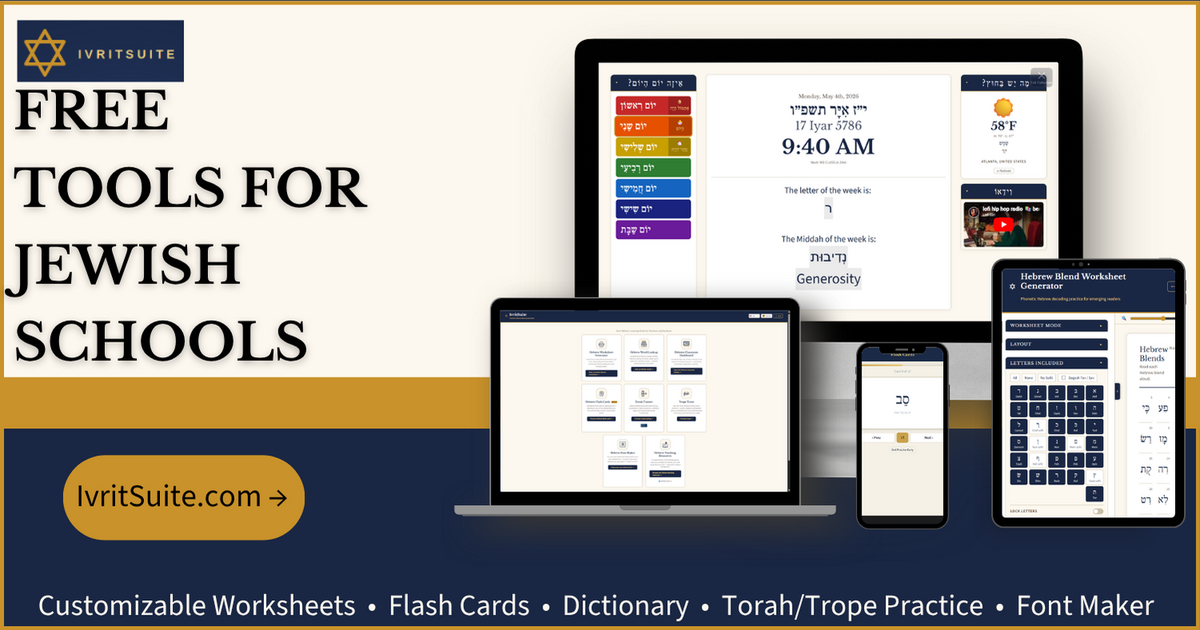
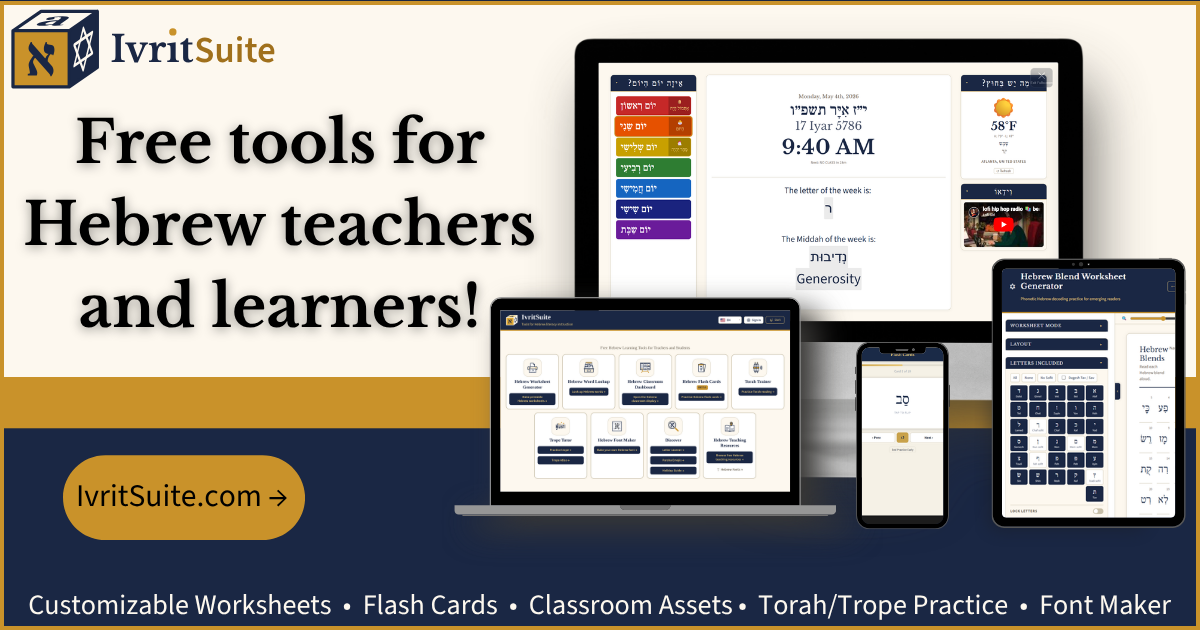
Replace the suite, Font Maker and trope social share images
New share cards from the maintainer (the new IvritSuite block logo; the
suite card's headline now reads "Free tools for Hebrew teachers and
learners!"). Canva's embedded metadata (author name, Canva doc/user ids)
is stripped losslessly, matching the old files; pixels are unchanged.

- og-card.png ?v=4 -> ?v=5 on its 11 pages, with the alt text updated to
  the card's new wording
- og-fontmaker.png ?v=2 -> ?v=3
- og-trope.png ?v=1 -> ?v=2 (the Trope Atlas, previously unversioned,
  joins at ?v=2)
- sw.js VERSION bumped for the edited pages

Claude-Session: https://claude.ai/code/session_01KpHdkLZmbWEqbFNNKv6jpx

diff --git a/index.html b/index.html
@@ -70,15 +70,15 @@
 <meta property="og:title" content="IvritSuite — Free Hebrew Literacy Tools">
 <meta property="og:description" content="A free collection of Hebrew literacy tools: worksheet generator, dictionary lookup, flash cards, Letter Learner alef-bet cards, classroom dashboard, Torah Trainer parsha reader, Parsha Emojis, Trope Tutor cantillation trainer, Hebrew Font Maker, and curated teaching resources.">
 <meta property="og:url" content="https://ivritsuite.com/">
-<meta property="og:image" content="https://ivritsuite.com/og-card.png?v=4">
+<meta property="og:image" content="https://ivritsuite.com/og-card.png?v=5">
 <meta property="og:image:width" content="1200">
 <meta property="og:image:height" content="630">
-<meta property="og:image:alt" content="IvritSuite — free tools for Jewish schools: worksheets, flash cards, dictionary, Torah and trope practice, and a font maker">
+<meta property="og:image:alt" content="IvritSuite — free tools for Hebrew teachers and learners: customizable worksheets, flash cards, classroom assets, Torah and trope practice, and a font maker">
 <meta property="og:locale" content="en_US">
 <meta name="twitter:card" content="summary_large_image">
 <meta name="twitter:title" content="IvritSuite — Free Hebrew Literacy Tools">
 <meta name="twitter:description" content="Free Hebrew literacy tools for teachers and students: worksheets, dictionary, flash cards, Letter Learner, classroom dashboard, Torah Trainer, Parsha Emojis, Trope Tutor, Font Maker, and resources.">
-<meta name="twitter:image" content="https://ivritsuite.com/og-card.png?v=4">
+<meta name="twitter:image" content="https://ivritsuite.com/og-card.png?v=5">
 <script type="application/ld+json">
 {
   "@context": "https://schema.org",

diff --git a/hebrew_blend_generator.html b/hebrew_blend_generator.html
@@ -70,15 +70,15 @@
 <meta property="og:title" content="Hebrew Worksheet Generator — Bingo & Drills">
 <meta property="og:description" content="Generate printable Hebrew decoding worksheets, bingo cards, and vocabulary drills. Customize letters, vowels, and difficulty for emerging Hebrew readers.">
 <meta property="og:url" content="https://ivritsuite.com/hebrew_blend_generator.html">
-<meta property="og:image" content="https://ivritsuite.com/og-card.png?v=4">
+<meta property="og:image" content="https://ivritsuite.com/og-card.png?v=5">
 <meta property="og:image:width" content="1200">
 <meta property="og:image:height" content="630">
-<meta property="og:image:alt" content="IvritSuite — free tools for Jewish schools: worksheets, flash cards, dictionary, Torah and trope practice, and a font maker">
+<meta property="og:image:alt" content="IvritSuite — free tools for Hebrew teachers and learners: customizable worksheets, flash cards, classroom assets, Torah and trope practice, and a font maker">
 <meta property="og:locale" content="en_US">
 <meta name="twitter:card" content="summary_large_image">
 <meta name="twitter:title" content="Hebrew Worksheet Generator | IvritSuite">
 <meta name="twitter:description" content="Free printable Hebrew decoding worksheets, bingo cards, and vocab drills with customizable letters, vowels, and difficulty.">
-<meta name="twitter:image" content="https://ivritsuite.com/og-card.png?v=4">
+<meta name="twitter:image" content="https://ivritsuite.com/og-card.png?v=5">
 <script type="application/ld+json">
 {
   "@context": "https://schema.org",

diff --git a/name_tags.html b/name_tags.html
@@ -57,15 +57,15 @@
 <meta property="og:title" content="Hebrew Name Tags — Printable Student Name Tags | IvritSuite">
 <meta property="og:description" content="Printable Hebrew name tags for your class: each student's Hebrew name with a transliteration and the English name, bubble letters, Avery label sheets and desk tent cards.">
 <meta property="og:url" content="https://ivritsuite.com/name_tags.html">
-<meta property="og:image" content="https://ivritsuite.com/og-card.png?v=4">
+<meta property="og:image" content="https://ivritsuite.com/og-card.png?v=5">
 <meta property="og:image:width" content="1200">
 <meta property="og:image:height" content="630">
-<meta property="og:image:alt" content="IvritSuite — free tools for Jewish schools: worksheets, flash cards, dictionary, Torah and trope practice, and a font maker">
+<meta property="og:image:alt" content="IvritSuite — free tools for Hebrew teachers and learners: customizable worksheets, flash cards, classroom assets, Torah and trope practice, and a font maker">
 <meta property="og:locale" content="en_US">
 <meta name="twitter:card" content="summary_large_image">
 <meta name="twitter:title" content="Hebrew Name Tags | IvritSuite">
 <meta name="twitter:description" content="Printable Hebrew name tags for your class, with transliteration, bubble letters, Avery labels and desk tents.">
-<meta name="twitter:image" content="https://ivritsuite.com/og-card.png?v=4">
+<meta name="twitter:image" content="https://ivritsuite.com/og-card.png?v=5">
 <script type="application/ld+json">
 {
   "@context": "https://schema.org",

diff --git a/privacy.html b/privacy.html
@@ -66,15 +66,15 @@
 <meta property="og:title" content="Privacy Policy | IvritSuite">
 <meta property="og:description" content="IvritSuite privacy policy: what the site stores on your own device, what it never collects, and FERPA compliance information for schools and educators.">
 <meta property="og:url" content="https://ivritsuite.com/privacy.html">
-<meta property="og:image" content="https://ivritsuite.com/og-card.png?v=4">
+<meta property="og:image" content="https://ivritsuite.com/og-card.png?v=5">
 <meta property="og:image:width" content="1200">
 <meta property="og:image:height" content="630">
-<meta property="og:image:alt" content="IvritSuite — free tools for Jewish schools: worksheets, flash cards, dictionary, Torah and trope practice, and a font maker">
+<meta property="og:image:alt" content="IvritSuite — free tools for Hebrew teachers and learners: customizable worksheets, flash cards, classroom assets, Torah and trope practice, and a font maker">
 <meta property="og:locale" content="en_US">
 <meta name="twitter:card" content="summary_large_image">
 <meta name="twitter:title" content="Privacy Policy | IvritSuite">
 <meta name="twitter:description" content="IvritSuite privacy policy: what the site stores on your own device, what it never collects, and FERPA compliance information for schools and educators.">
-<meta name="twitter:image" content="https://ivritsuite.com/og-card.png?v=4">
+<meta name="twitter:image" content="https://ivritsuite.com/og-card.png?v=5">
 <script type="application/ld+json">
 {
   "@context": "https://schema.org",

diff --git a/hebrew_dictionary.html b/hebrew_dictionary.html
@@ -71,15 +71,15 @@
 <meta property="og:title" content="Hebrew Word Lookup & Dictionary Filter">
 <meta property="og:description" content="Browse and filter a Hebrew dictionary by theme, word length, part of speech, era, and letter position. Free Hebrew word lookup tool for students and teachers.">
 <meta property="og:url" content="https://ivritsuite.com/hebrew_dictionary.html">
-<meta property="og:image" content="https://ivritsuite.com/og-card.png?v=4">
+<meta property="og:image" content="https://ivritsuite.com/og-card.png?v=5">
 <meta property="og:image:width" content="1200">
 <meta property="og:image:height" content="630">
-<meta property="og:image:alt" content="IvritSuite — free tools for Jewish schools: worksheets, flash cards, dictionary, Torah and trope practice, and a font maker">
+<meta property="og:image:alt" content="IvritSuite — free tools for Hebrew teachers and learners: customizable worksheets, flash cards, classroom assets, Torah and trope practice, and a font maker">
 <meta property="og:locale" content="en_US">
 <meta name="twitter:card" content="summary_large_image">
 <meta name="twitter:title" content="Hebrew Word Lookup | IvritSuite">
 <meta name="twitter:description" content="Filter a Hebrew dictionary by theme, word length, part of speech, era, and letter position. Free Hebrew word lookup.">
-<meta name="twitter:image" content="https://ivritsuite.com/og-card.png?v=4">
+<meta name="twitter:image" content="https://ivritsuite.com/og-card.png?v=5">
 <script type="application/ld+json">
 {
   "@context": "https://schema.org",

diff --git a/terms.html b/terms.html
@@ -66,15 +66,15 @@
 <meta property="og:title" content="Terms of Use | IvritSuite">
 <meta property="og:description" content="IvritSuite terms of use: who owns the worksheets and fonts you make, third-party licenses, acceptable classroom use, and the warranty disclaimer.">
 <meta property="og:url" content="https://ivritsuite.com/terms.html">
-<meta property="og:image" content="https://ivritsuite.com/og-card.png?v=4">
+<meta property="og:image" content="https://ivritsuite.com/og-card.png?v=5">
 <meta property="og:image:width" content="1200">
 <meta property="og:image:height" content="630">
-<meta property="og:image:alt" content="IvritSuite — free tools for Jewish schools: worksheets, flash cards, dictionary, Torah and trope practice, and a font maker">
+<meta property="og:image:alt" content="IvritSuite — free tools for Hebrew teachers and learners: customizable worksheets, flash cards, classroom assets, Torah and trope practice, and a font maker">
 <meta property="og:locale" content="en_US">
 <meta name="twitter:card" content="summary_large_image">
 <meta name="twitter:title" content="Terms of Use | IvritSuite">
 <meta name="twitter:description" content="IvritSuite terms of use: who owns the worksheets and fonts you make, third-party licenses, acceptable classroom use, and the warranty disclaimer.">
-<meta name="twitter:image" content="https://ivritsuite.com/og-card.png?v=4">
+<meta name="twitter:image" content="https://ivritsuite.com/og-card.png?v=5">
 <script type="application/ld+json">
 {
   "@context": "https://schema.org",

diff --git a/classroom_dashboard.html b/classroom_dashboard.html
@@ -54,15 +54,15 @@
 <meta property="og:title" content="Hebrew Classroom Dashboard for SmartBoards">
 <meta property="og:description" content="Live Hebrew date, time, weather, and days of the week for classroom SmartBoards and projectors. Free Hebrew classroom dashboard for teachers.">
 <meta property="og:url" content="https://ivritsuite.com/classroom_dashboard.html">
-<meta property="og:image" content="https://ivritsuite.com/og-card.png?v=4">
+<meta property="og:image" content="https://ivritsuite.com/og-card.png?v=5">
 <meta property="og:image:width" content="1200">
 <meta property="og:image:height" content="630">
-<meta property="og:image:alt" content="IvritSuite — free tools for Jewish schools: worksheets, flash cards, dictionary, Torah and trope practice, and a font maker">
+<meta property="og:image:alt" content="IvritSuite — free tools for Hebrew teachers and learners: customizable worksheets, flash cards, classroom assets, Torah and trope practice, and a font maker">
 <meta property="og:locale" content="en_US">
 <meta name="twitter:card" content="summary_large_image">
 <meta name="twitter:title" content="Hebrew Classroom Dashboard | IvritSuite">
 <meta name="twitter:description" content="Live Hebrew date, time, weather, and days of the week for classroom SmartBoards.">
-<meta name="twitter:image" content="https://ivritsuite.com/og-card.png?v=4">
+<meta name="twitter:image" content="https://ivritsuite.com/og-card.png?v=5">
 <script type="application/ld+json">
 {
   "@context": "https://schema.org",

diff --git a/resources.html b/resources.html
@@ -68,15 +68,15 @@
 <meta property="og:title" content="Hebrew Teaching Resources">
 <meta property="og:description" content="Curated directory of external Hebrew and Jewish education resources, tools, and references for teachers and students of Hebrew literacy.">
 <meta property="og:url" content="https://ivritsuite.com/resources.html">
-<meta property="og:image" content="https://ivritsuite.com/og-card.png?v=4">
+<meta property="og:image" content="https://ivritsuite.com/og-card.png?v=5">
 <meta property="og:image:width" content="1200">
 <meta property="og:image:height" content="630">
-<meta property="og:image:alt" content="IvritSuite — free tools for Jewish schools: worksheets, flash cards, dictionary, Torah and trope practice, and a font maker">
+<meta property="og:image:alt" content="IvritSuite — free tools for Hebrew teachers and learners: customizable worksheets, flash cards, classroom assets, Torah and trope practice, and a font maker">
 <meta property="og:locale" content="en_US">
 <meta name="twitter:card" content="summary_large_image">
 <meta name="twitter:title" content="Hebrew Teaching Resources | IvritSuite">
 <meta name="twitter:description" content="Curated Hebrew and Jewish education resources, tools, and references for teachers and students.">
-<meta name="twitter:image" content="https://ivritsuite.com/og-card.png?v=4">
+<meta name="twitter:image" content="https://ivritsuite.com/og-card.png?v=5">
 <script type="application/ld+json">
 {
   "@context": "https://schema.org",

diff --git a/flash_cards.html b/flash_cards.html
@@ -71,15 +71,15 @@
 <meta property="og:title" content="Hebrew Flash Cards — Reading Practice">
 <meta property="og:description" content="Interactive Hebrew syllable flash cards for reading practice. Free tool for students learning to decode Hebrew with nikkud.">
 <meta property="og:url" content="https://ivritsuite.com/flash_cards.html">
-<meta property="og:image" content="https://ivritsuite.com/og-card.png?v=4">
+<meta property="og:image" content="https://ivritsuite.com/og-card.png?v=5">
 <meta property="og:image:width" content="1200">
 <meta property="og:image:height" content="630">
-<meta property="og:image:alt" content="IvritSuite — free tools for Jewish schools: worksheets, flash cards, dictionary, Torah and trope practice, and a font maker">
+<meta property="og:image:alt" content="IvritSuite — free tools for Hebrew teachers and learners: customizable worksheets, flash cards, classroom assets, Torah and trope practice, and a font maker">
 <meta property="og:locale" content="en_US">
 <meta name="twitter:card" content="summary_large_image">
 <meta name="twitter:title" content="Hebrew Flash Cards | IvritSuite">
 <meta name="twitter:description" content="Interactive Hebrew syllable flash cards for reading practice with nikkud.">
-<meta name="twitter:image" content="https://ivritsuite.com/og-card.png?v=4">
+<meta name="twitter:image" content="https://ivritsuite.com/og-card.png?v=5">
 <script type="application/ld+json">
 {
   "@context": "https://schema.org",

diff --git a/contact.html b/contact.html
@@ -67,15 +67,15 @@
 <meta property="og:title" content="Contact &amp; Support | IvritSuite">
 <meta property="og:description" content="Get in touch and support IvritSuite — free Hebrew literacy tools for teachers and students.">
 <meta property="og:url" content="https://ivritsuite.com/contact.html">
-<meta property="og:image" content="https://ivritsuite.com/og-card.png?v=4">
+<meta property="og:image" content="https://ivritsuite.com/og-card.png?v=5">
 <meta property="og:image:width" content="1200">
 <meta property="og:image:height" content="630">
-<meta property="og:image:alt" content="IvritSuite — free tools for Jewish schools: worksheets, flash cards, dictionary, Torah and trope practice, and a font maker">
+<meta property="og:image:alt" content="IvritSuite — free tools for Hebrew teachers and learners: customizable worksheets, flash cards, classroom assets, Torah and trope practice, and a font maker">
 <meta property="og:locale" content="en_US">
 <meta name="twitter:card" content="summary_large_image">
 <meta name="twitter:title" content="Contact &amp; Support | IvritSuite">
 <meta name="twitter:description" content="Get in touch and support IvritSuite — free Hebrew literacy tools for teachers and students.">
-<meta name="twitter:image" content="https://ivritsuite.com/og-card.png?v=4">
+<meta name="twitter:image" content="https://ivritsuite.com/og-card.png?v=5">
 <script type="application/ld+json">
 {
   "@context": "https://schema.org",

diff --git a/account.html b/account.html
@@ -59,15 +59,15 @@
 <meta property="og:title" content="Your Account | IvritSuite">
 <meta property="og:description" content="See what your optional IvritSuite account holds, download everything in it, or delete it.">
 <meta property="og:url" content="https://ivritsuite.com/account.html">
-<meta property="og:image" content="https://ivritsuite.com/og-card.png?v=4">
+<meta property="og:image" content="https://ivritsuite.com/og-card.png?v=5">
 <meta property="og:image:width" content="1200">
 <meta property="og:image:height" content="630">
-<meta property="og:image:alt" content="IvritSuite — free tools for Jewish schools: worksheets, flash cards, dictionary, Torah and trope practice, and a font maker">
+<meta property="og:image:alt" content="IvritSuite — free tools for Hebrew teachers and learners: customizable worksheets, flash cards, classroom assets, Torah and trope practice, and a font maker">
 <meta property="og:locale" content="en_US">
 <meta name="twitter:card" content="summary_large_image">
 <meta name="twitter:title" content="Your Account | IvritSuite">
 <meta name="twitter:description" content="See what your optional IvritSuite account holds, download everything in it, or delete it.">
-<meta name="twitter:image" content="https://ivritsuite.com/og-card.png?v=4">
+<meta name="twitter:image" content="https://ivritsuite.com/og-card.png?v=5">
 <script type="application/ld+json">
 {
   "@context": "https://schema.org",

diff --git a/trope_tutor.html b/trope_tutor.html
@@ -57,7 +57,7 @@
 <meta property="og:title" content="Trope Tutor — Learn Torah Cantillation (Te'amim) Free">
 <meta property="og:description" content="Learn the Torah trope marks — symbols, Ashkenazi & Sephardi names, melodies, and the chart's phrases on full staffs — with real chanted examples, then drill yourself with three quiz modes.">
 <meta property="og:url" content="https://ivritsuite.com/trope_tutor.html">
-<meta property="og:image" content="https://ivritsuite.com/og-trope.png?v=1">
+<meta property="og:image" content="https://ivritsuite.com/og-trope.png?v=2">
 <meta property="og:image:width" content="1200">
 <meta property="og:image:height" content="630">
 <meta property="og:image:alt" content="IvritSuite — learn the trope and read Torah for free: trope practice, adjustable chanting speed and color coding">
@@ -65,7 +65,7 @@
 <meta name="twitter:card" content="summary_large_image">
 <meta name="twitter:title" content="Trope Tutor — Learn Torah Cantillation | IvritSuite">
 <meta name="twitter:description" content="Free tutor for the Torah trope marks: names, symbols, melodies and phrases, with real chanted examples and drills.">
-<meta name="twitter:image" content="https://ivritsuite.com/og-trope.png?v=1">
+<meta name="twitter:image" content="https://ivritsuite.com/og-trope.png?v=2">
 <script type="application/ld+json">
 {
   "@context": "https://schema.org",
